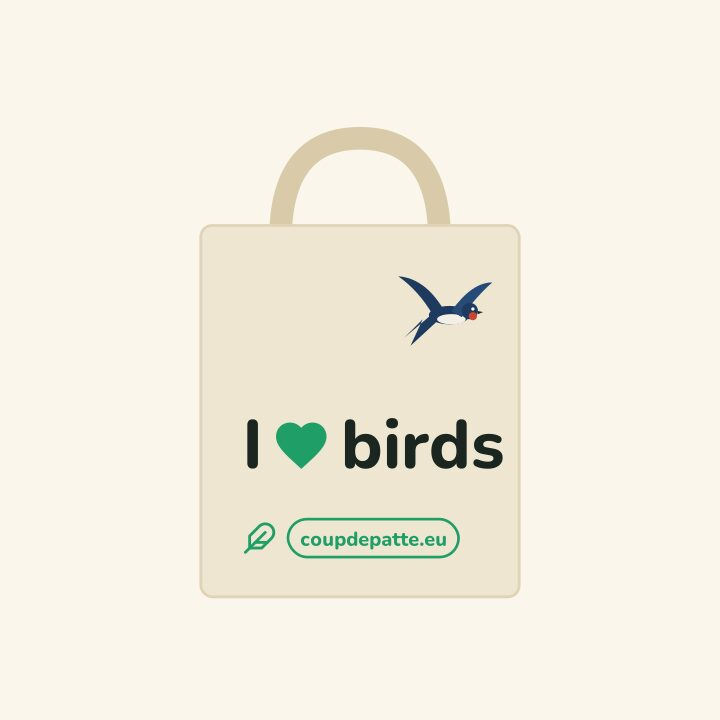
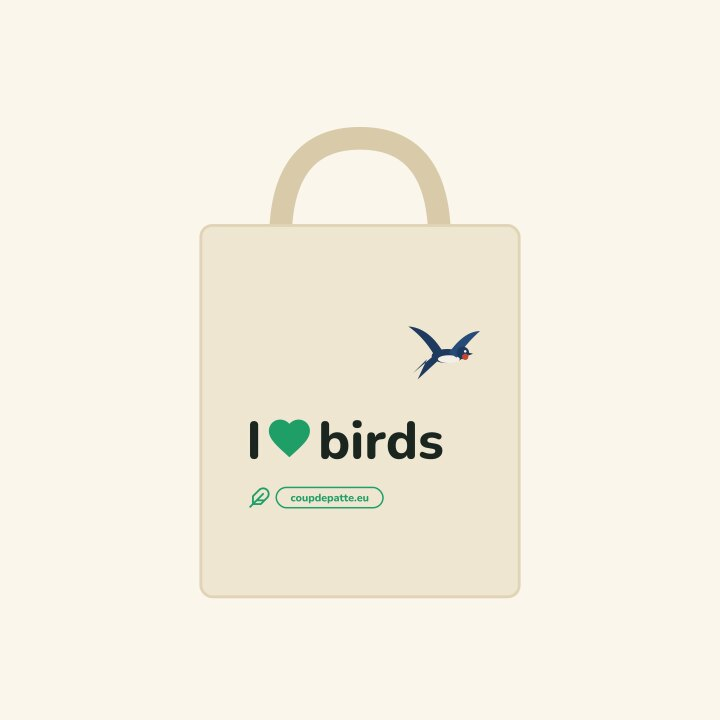
Boutique : tote bag en cinq modèles (un par oiseau et les quatre ensemble), choix du modèle, fichiers mug et autocollant, CGV complétées (téléphone, délai, médiateur)
Claude-Session: https://claude.ai/code/session_01SrhVcf1YKpy74WjD8FZC1m

Changed region(s): [[0.3361, 0.5806, 0.7028, 0.7944], [0.55, 0.3972, 0.6722, 0.5194], [0.55, 0.3667, 0.5806, 0.3972]]

diff --git a/boutique/index.html b/boutique/index.html
@@ -46,6 +46,10 @@ label{font-size:13px;font-weight:700;color:var(--doux)}
 select{font:inherit;font-size:16px;padding:10px 12px;border-radius:12px;border:1px solid var(--bord);background:var(--blanc);color:var(--texte);width:100%}
 .btn{margin-top:auto;display:block;width:100%;border:none;border-radius:14px;padding:14px;font:inherit;font-weight:800;font-size:16px;background:var(--vert);color:#fff;cursor:pointer;min-height:48px}
 .btn[disabled]{opacity:.55;cursor:default}
+.modeles{display:flex;flex-wrap:wrap;gap:6px;margin:2px 0 4px}
+.modele{font:inherit;font-size:13.5px;font-weight:800;padding:8px 12px;min-height:38px;border-radius:999px;border:1.5px solid var(--bord);background:var(--blanc);color:var(--texte);cursor:pointer}
+.modele[aria-pressed="true"]{border-color:var(--vert);background:var(--vert-pale);color:var(--vert-fonce)}
+@media (prefers-color-scheme:dark){.modele[aria-pressed="true"]{color:#8fd8b4}}
 .msg{min-height:20px;margin:12px 0 0;font-weight:700}
 .msg.err{color:var(--erreur)}
 .rassure{display:grid;grid-template-columns:repeat(auto-fit,minmax(220px,1fr));gap:12px;margin:26px 0 8px}
@@ -88,12 +92,17 @@ footer p{margin:4px 0}
   var DEFAUT = [
     {id:'tshirt-plume', nom:'T-shirt La plume', description:'La plume blanche, petite et haut sur la poitrine, sur coton vert. Coupe unisexe.', image:IMG+'tshirt.jpg', tailles:['S','M','L','XL','XXL'], prix_cts:null},
     {id:'sweat-oiseaux', nom:'Sweat Oiseaux de nos jardins', description:'Rouge-gorge, mésange, hirondelle et martinet, centrés sur le torse. Molleton écru.', image:IMG+'sweat.jpg', tailles:['S','M','L','XL','XXL'], prix_cts:null},
-    {id:'tote-ilovebirds', nom:'Tote bag I love birds', description:'Coton naturel, pour les courses, les marchés et les sorties nature.', image:IMG+'tote.jpg', tailles:[], prix_cts:null},
+    {id:'tote-ilovebirds', nom:'Tote bag I love birds', description:'Coton biologique naturel, pour les courses, les marchés et les sorties nature. Cinq modèles : un par oiseau, ou les quatre ensemble.', image:IMG+'tote-hirondelle.jpg', tailles:[], prix_cts:null, variantes:[
+      {id:'hirondelle', nom:'Hirondelle', image:IMG+'tote-hirondelle.jpg'},
+      {id:'rouge-gorge', nom:'Rouge-gorge', image:IMG+'tote-rouge-gorge.jpg'},
+      {id:'mesange', nom:'Mésange bleue', image:IMG+'tote-mesange.jpg'},
+      {id:'martinet', nom:'Martinet noir', image:IMG+'tote-martinet.jpg'},
+      {id:'quatre-oiseaux', nom:'Les quatre oiseaux', image:IMG+'tote-quatre-oiseaux.jpg'}]},
     {id:'mug-plume', nom:'Mug La plume', description:'Céramique blanche, la plume du logo dans sa pastille verte.', image:IMG+'mug.jpg', tailles:[], prix_cts:null},
     {id:'porte-cles', nom:'Porte-clés', description:'Acrylique, un petit cadeau qui fait connaître l\'association.', image:IMG+'porte-cles.jpg', tailles:[], prix_cts:null},
     {id:'autocollants', nom:'Autocollants', description:'Vinyle découpé : le slogan, les oiseaux et la plume.', image:IMG+'autocollants.jpg', tailles:[], prix_cts:null}
   ];
-  var produits = DEFAUT, envoi = false;
+  var produits = DEFAUT, envoi = false, choix = {};
   function esc(s){ return String(s==null?'':s).replace(/[&<>"']/g,function(c){ return {'&':'&amp;','<':'&lt;','>':'&gt;','"':'&quot;',"'":'&#39;'}[c]; }); }
   function img(u){ u=String(u||''); return u.charAt(0)==='/' ? 'https://coupdepatte.eu'+u : u; }
   function prix(c){ if(c==null) return 'Prix bientôt'; var e=(c/100).toFixed(2).replace('.',','); return e.replace(',00','')+' €'; }
@@ -105,15 +114,18 @@ footer p{margin:4px 0}
     document.getElementById('bandeau').innerHTML=b;
     document.getElementById('grille').innerHTML=produits.map(function(p){
       var id=esc(p.id), t=p.tailles||[], actif=OUVERTE && p.prix_cts!=null;
+      var v=p.variantes||[], cv=choix[p.id]||(v[0]&&v[0].id), image=p.image;
+      var mod=v.length?'<label>Modèle</label><div class="modeles" role="group" aria-label="Modèle">'+v.map(function(x){ if(x.id===cv && x.image) image=x.image; return '<button type="button" class="modele" aria-pressed="'+(x.id===cv)+'" onclick="choisir(\''+id+'\',\''+esc(x.id)+'\')">'+esc(x.nom)+'</button>'; }).join('')+'</div>':'';
       var sel=t.length?'<label for="t_'+id+'">Taille</label><select id="t_'+id+'">'+t.map(function(x){ return '<option'+(x==='M'?' selected':'')+'>'+esc(x)+'</option>'; }).join('')+'</select>':'';
-      return '<article class="carte" id="'+id+'"><img src="'+esc(img(p.image))+'" alt="'+esc(p.nom)+'" width="720" height="720" loading="lazy">'
-        +'<div class="corps"><h2>'+esc(p.nom)+'</h2><p>'+esc(p.description)+'</p><div class="prix">'+prix(p.prix_cts)+'</div>'+sel
+      return '<article class="carte" id="'+id+'"><img src="'+esc(img(image))+'" alt="'+esc(p.nom)+'" width="720" height="720" loading="lazy">'
+        +'<div class="corps"><h2>'+esc(p.nom)+'</h2><p>'+esc(p.description)+'</p><div class="prix">'+prix(p.prix_cts)+'</div>'+mod+sel
         +'<button class="btn" type="button"'+(actif?' onclick="commander(\''+id+'\')"':' disabled')+'>'+(actif?'Commander':'Bientôt disponible')+'</button></div></article>';
     }).join('');
   }
+  function choisir(id, v){ choix[id]=v; rendre(); }
   function charger(){
     var x=new XMLHttpRequest();
-    x.open('GET', SUPA+'/rest/v1/boutique_produits?select=id,nom,description,image,tailles,prix_cts,ordre&actif=eq.true&order=ordre');
+    x.open('GET', SUPA+'/rest/v1/boutique_produits?select=id,nom,description,image,tailles,variantes,prix_cts,ordre&actif=eq.true&order=ordre');
     x.setRequestHeader('apikey', CLE);
     x.onload=function(){ try{ var d=JSON.parse(x.responseText); if(x.status===200 && d && d.length){ produits=d; rendre(); } }catch(_){} };
     x.send();
@@ -121,14 +133,16 @@ footer p{margin:4px 0}
   function commander(id){
     var m=document.getElementById('msg');
     if(!OUVERTE || envoi) return;
-    var s=document.getElementById('t_'+id), taille=s?s.value:null;
+    var s=document.getElementById('t_'+id), taille=s?s.value:null, p=null, i;
+    for(i=0;i<produits.length;i++) if(produits[i].id===id) p=produits[i];
+    var v=(p&&p.variantes)||[], variante=v.length?(choix[id]||v[0].id):null;
     envoi=true; m.className='msg'; m.textContent='Préparation du paiement sécurisé...';
     var x=new XMLHttpRequest();
     x.open('POST', SUPA+'/functions/v1/boutique-commande');
     x.setRequestHeader('apikey', CLE); x.setRequestHeader('Authorization', 'Bearer '+CLE); x.setRequestHeader('Content-Type','application/json');
     x.onload=function(){ envoi=false; var d=null; try{ d=JSON.parse(x.responseText); }catch(_){} if(d && d.url){ location.href=d.url; return; } m.className='msg err'; m.textContent='Le paiement n\'a pas pu démarrer. Réessaie dans un instant.'; };
     x.onerror=function(){ envoi=false; m.className='msg err'; m.textContent='Connexion impossible. Vérifie ton réseau.'; };
-    x.send(JSON.stringify({produit:id, taille:taille}));
+    x.send(JSON.stringify({produit:id, taille:taille, variante:variante}));
   }
   rendre(); charger();
 </script>

diff --git a/boutique/cgv/index.html b/boutique/cgv/index.html
@@ -48,7 +48,7 @@ footer a{color:var(--texte)}
   <h2>1. Vendeur et mentions légales</h2>
   <div class="encart">
     <p>La boutique accessible à l'adresse <a href="https://boutique.coupdepatte.eu/">https://boutique.coupdepatte.eu</a> est éditée et exploitée par <b>DIVA DIAA</b>, société par actions simplifiée au capital de 1 000 €, dont le siège social est situé 43 rue Sabine et Miron Zlatin, 34000 Montpellier, immatriculée au registre du commerce et des sociétés de Montpellier sous le numéro 109 969 345, numéro de TVA intracommunautaire FR86109969345, représentée par son président, la société DAFFOURD INVEST (ci-après « le Vendeur »).</p>
-    <p>Contact : <a href="mailto:bonjour@coupdepatte.eu">bonjour@coupdepatte.eu</a>. Téléphone : [TÉLÉPHONE DU VENDEUR].</p>
+    <p>Contact : <a href="mailto:bonjour@coupdepatte.eu">bonjour@coupdepatte.eu</a>. Téléphone : <a href="tel:+33781300950">07 81 30 09 50</a>.</p>
     <p>Directeur de la publication : le représentant légal de DIVA DIAA.</p>
     <p>Hébergement : Vercel Inc., 340 S Lemon Ave #4133, Walnut, CA 91789, États-Unis. Données de la boutique : Supabase Inc., sous-traitant au sens du RGPD.</p>
     <p>Le Vendeur exploite la boutique pour l'association Coup de Patte (loi 1901), dont l'application d'aide au sauvetage des oiseaux est disponible sur <a href="https://coupdepatte.eu/">https://coupdepatte.eu</a>. L'association n'est pas le vendeur des produits.</p>
@@ -71,7 +71,7 @@ footer a{color:var(--texte)}
   <p>Le paiement s'effectue par carte bancaire sur la page de paiement sécurisée de la société Stripe. Le Vendeur n'a jamais accès aux données bancaires du client. Le compte du client est débité au moment de la validation de la commande.</p>
 
   <h2>7. Livraison</h2>
-  <p>Les produits sont livrés en France métropolitaine, à l'adresse indiquée lors de la commande. Le délai indicatif est de [DÉLAI À CONFIRMER] jours ouvrés après la commande, fabrication comprise. Ce délai n'est qu'indicatif ; en tout état de cause, la livraison intervient au plus tard 30 jours après la commande. À défaut, le client peut résoudre le contrat dans les conditions prévues aux articles L216-2 et suivants du Code de la consommation.</p>
+  <p>Les produits sont livrés en France métropolitaine, à l'adresse indiquée lors de la commande. Chaque objet étant fabriqué à la demande, le délai indicatif est de 5 à 12 jours ouvrés après la commande : 2 à 5 jours ouvrés de fabrication, puis l'acheminement. Lorsqu'une commande comprend plusieurs objets, ils peuvent arriver en plusieurs colis. Ce délai n'est qu'indicatif ; en tout état de cause, la livraison intervient au plus tard 30 jours après la commande. À défaut, le client peut résoudre le contrat dans les conditions prévues aux articles L216-2 et suivants du Code de la consommation.</p>
   <p>Le client vérifie l'état du colis à réception. En cas de produit endommagé, manquant ou non conforme, il le signale à <a href="mailto:bonjour@coupdepatte.eu">bonjour@coupdepatte.eu</a>, si possible avec une photo, dans les meilleurs délais.</p>
 
   <h2>8. Droit de rétractation</h2>
@@ -93,7 +93,7 @@ footer a{color:var(--texte)}
   <p>Les visuels, illustrations, logos et textes de la boutique sont protégés. Toute reproduction sans autorisation est interdite.</p>
 
   <h2>13. Réclamations, médiation et litiges</h2>
-  <p>Pour toute réclamation, le client écrit à <a href="mailto:bonjour@coupdepatte.eu">bonjour@coupdepatte.eu</a>. En cas de désaccord persistant, il peut recourir gratuitement au médiateur de la consommation dont relève le Vendeur : [MÉDIATEUR DE LA CONSOMMATION, NOM, ADRESSE ET SITE]. Les présentes conditions sont soumises au droit français. À défaut de solution amiable, le litige est porté devant les juridictions compétentes dans les conditions de droit commun.</p>
+  <p>Pour toute réclamation, le client écrit à <a href="mailto:bonjour@coupdepatte.eu">bonjour@coupdepatte.eu</a>. En cas de désaccord persistant, il peut recourir gratuitement au médiateur de la consommation dont relève le Vendeur. Ce médiateur est en cours de désignation ; son nom, son adresse et son site seront publiés sur cette page avant l'ouverture des ventes. Les présentes conditions sont soumises au droit français. À défaut de solution amiable, le litige est porté devant les juridictions compétentes dans les conditions de droit commun.</p>
 
   <h2>Formulaire de rétractation</h2>
   <div class="formulaire">

diff --git a/index.html b/index.html
@@ -1409,7 +1409,7 @@
   var BOUTIQUE_DEFAUT = [
     {id:'tshirt-plume', nom:'T-shirt La plume', motif:'La plume', description:'La plume blanche, petite et haut sur la poitrine, sur coton vert. Coupe unisexe.', image:'/boutique/apercus/tshirt.jpg', tailles:['S','M','L','XL','XXL'], prix_cts:null, ordre:1},
     {id:'sweat-oiseaux', nom:'Sweat Oiseaux de nos jardins', motif:'Oiseaux de nos jardins', description:'Rouge-gorge, mésange, hirondelle et martinet, centrés sur le torse. Molleton écru.', image:'/boutique/apercus/sweat.jpg', tailles:['S','M','L','XL','XXL'], prix_cts:null, ordre:2},
-    {id:'tote-ilovebirds', nom:'Tote bag I love birds', motif:'I love birds', description:'Coton naturel, pour les courses, les marchés et les sorties nature.', image:'/boutique/apercus/tote.jpg', tailles:[], prix_cts:null, ordre:3},
+    {id:'tote-ilovebirds', nom:'Tote bag I love birds', motif:'I love birds', description:'Coton biologique naturel. Cinq modèles : un par oiseau, ou les quatre ensemble.', image:'/boutique/apercus/tote-quatre-oiseaux.jpg', tailles:[], prix_cts:null, ordre:3},
     {id:'mug-plume', nom:'Mug La plume', motif:'La plume', description:'Céramique blanche, la plume du logo dans sa pastille verte.', image:'/boutique/apercus/mug.jpg', tailles:[], prix_cts:null, ordre:4},
     {id:'porte-cles', nom:'Porte-clés', motif:'Rouge-gorge ou plume', description:'Acrylique, un petit cadeau qui fait connaître l\'association.', image:'/boutique/apercus/porte-cles.jpg', tailles:[], prix_cts:null, ordre:5},
     {id:'autocollants', nom:'Autocollants', motif:'I love birds et oiseaux', description:'Vinyle découpé : le slogan, les oiseaux et la plume.', image:'/boutique/apercus/autocollants.jpg', tailles:[], prix_cts:null, ordre:6}

diff --git a/sw.js b/sw.js
@@ -5,7 +5,7 @@
 // Nationale, tuiles OpenStreetMap) part directement au reseau, sans jamais passer par
 // le cache. Sinon les donnees du carnet resteraient figees apres un ajout, une
 // modification ou une suppression.
-const CACHE = 'coup-de-patte-v42';
+const CACHE = 'coup-de-patte-v43';
 const ASSETS = [
   './',
   './index.html',
